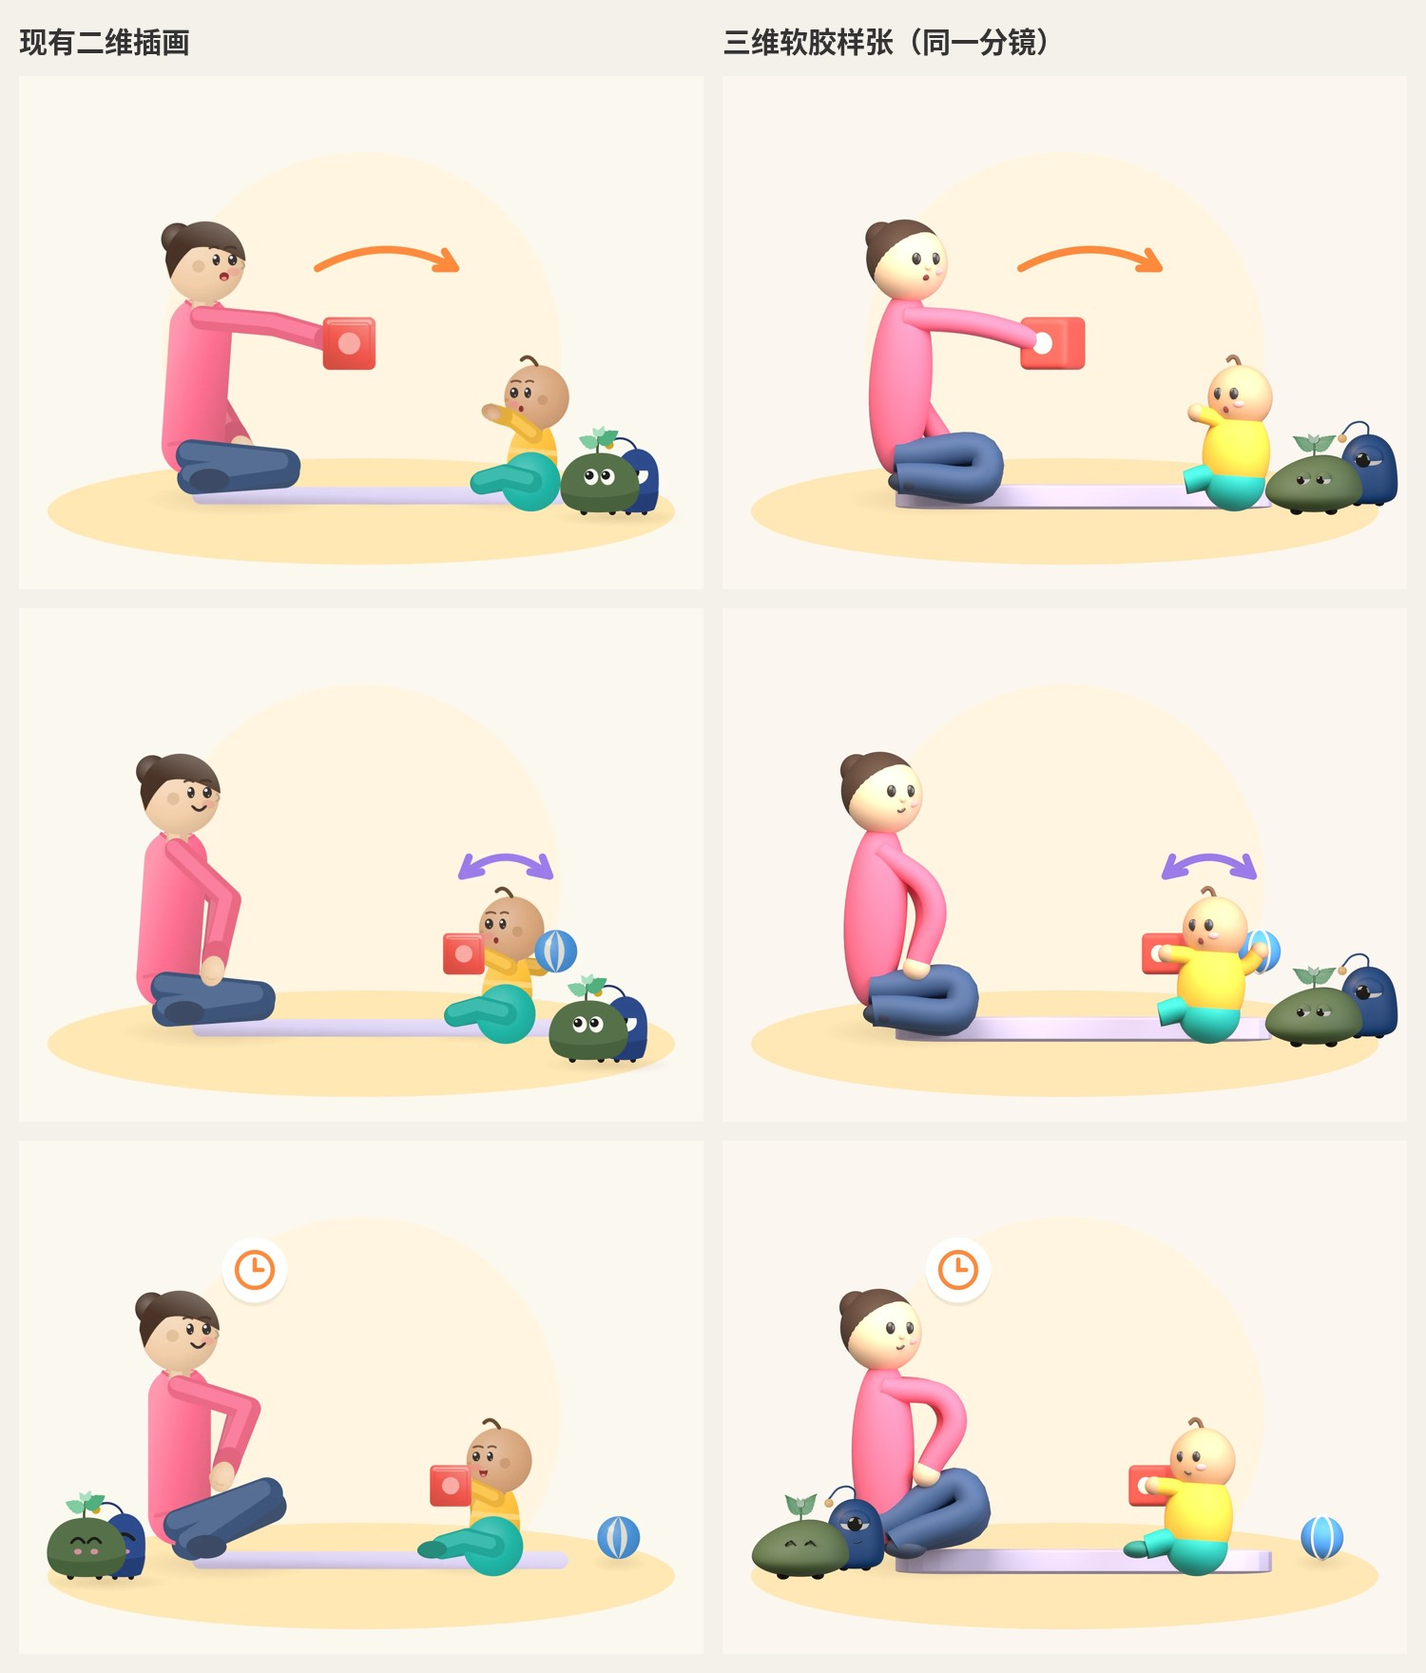
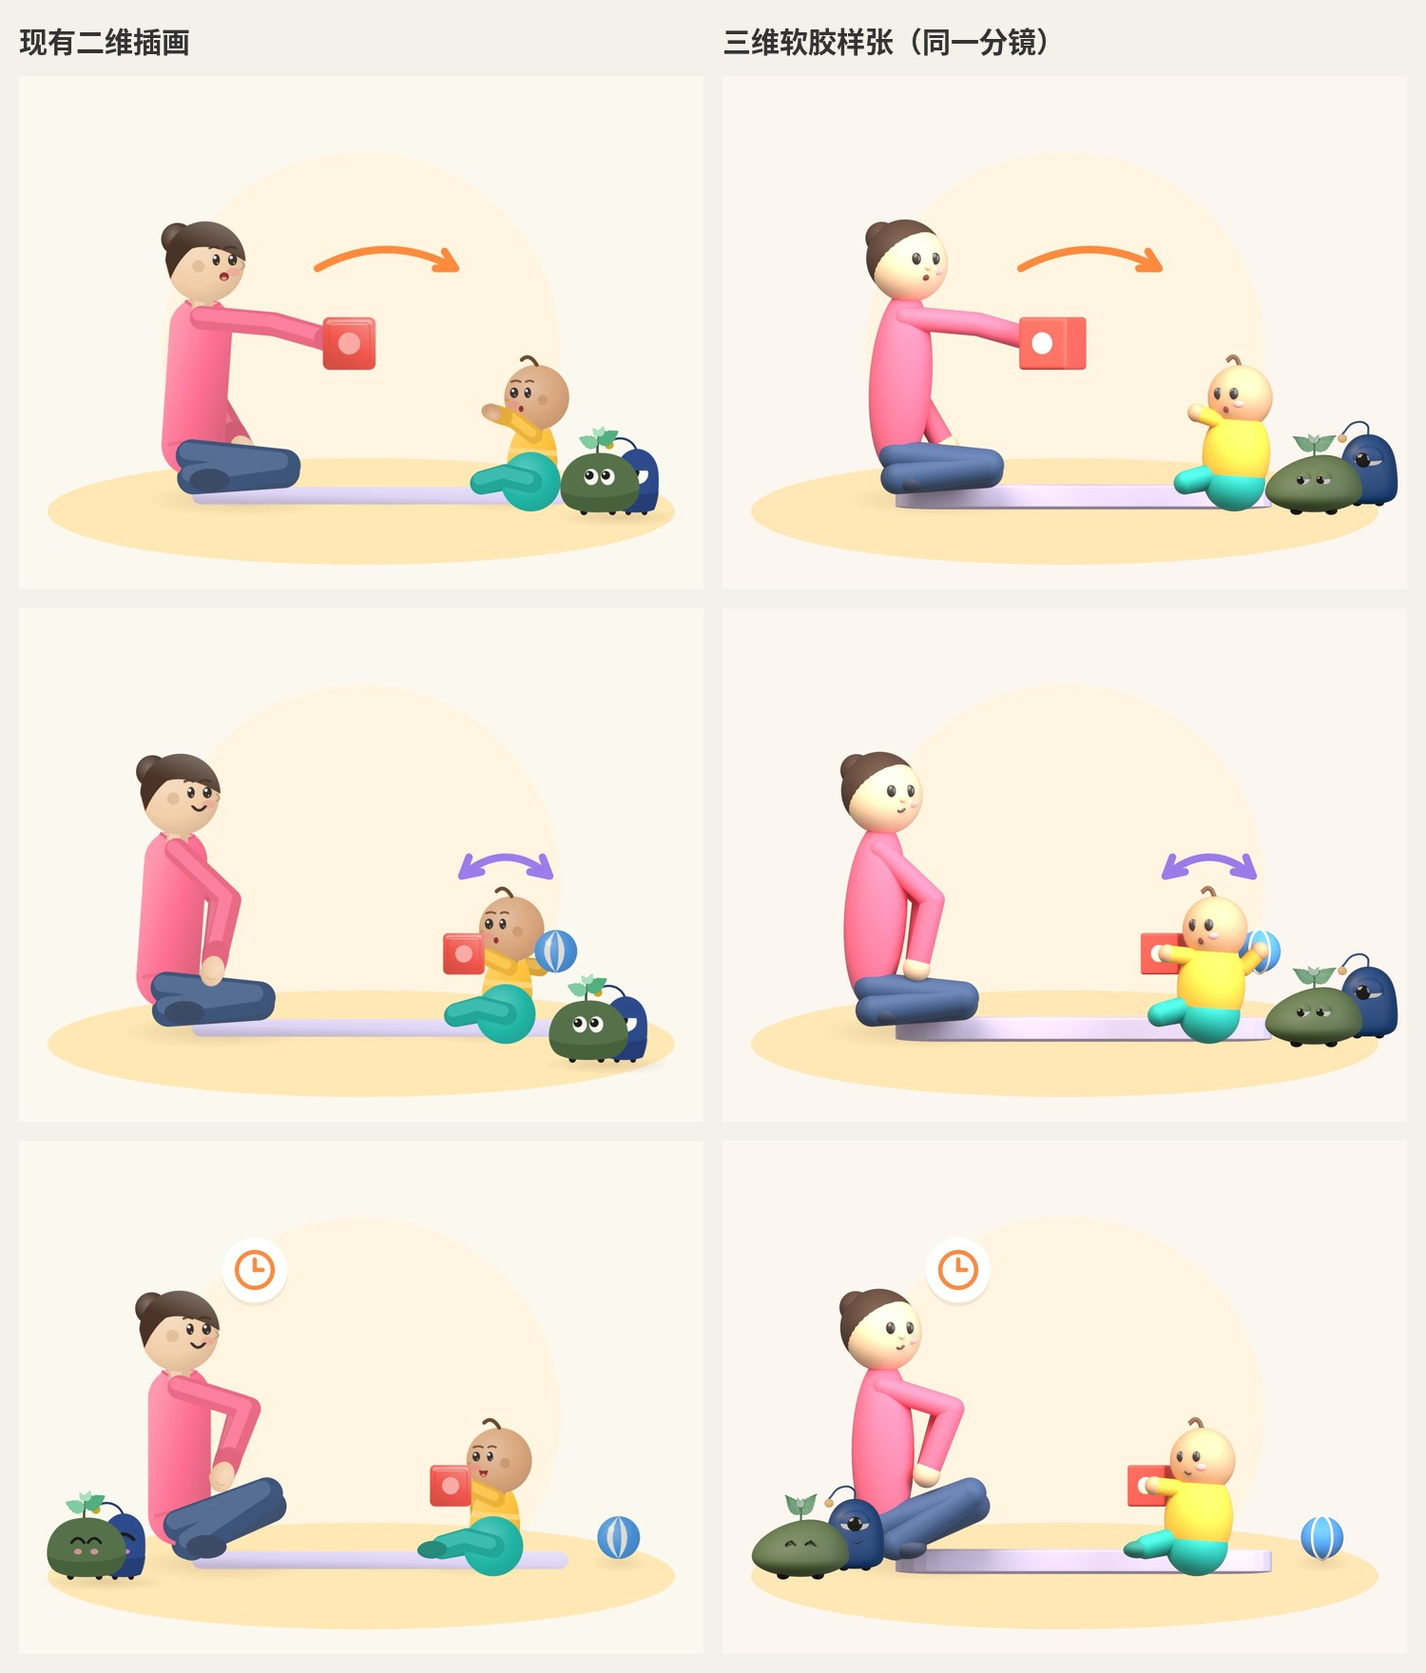
scene3d: articulated vinyl limbs (round joints), 3D props for most materials (table, stool, basket, cup, drum, cushion, box, car, bowl, plate, pot, spoon, rattle, doll), flat things and scenery kept 2D in their layers; LampScene places the rendered figures by their feet line and Otto's light at the 
Claude-Session: https://claude.ai/code/session_01UTvD6AgKvTyZ1ghsbDDvi8

diff --git a/ios/Mossling/IP/LampScene.swift b/ios/Mossling/IP/LampScene.swift
@@ -34,8 +34,10 @@ struct LampScene: View {
             let deskY = h * 0.72
             let ms = min(w * 0.36, h * 0.46), os = ms * 0.96
             let mossX = w * 0.30, ottoX = w * 0.72, toyX = w * 0.505
-            let ottoOrigin = CGPoint(x: ottoX - os / 2, y: deskY - os * 0.9)
-            let bead = CGPoint(x: ottoOrigin.x + os * 0.2, y: ottoOrigin.y + os * 0.115)
+            // the figures stand with their feet on the table top (the feet line of each render, Sprites.swift)
+            let mossTop = deskY - ms * Sprites.mossFeet / 100, ottoTop = deskY - os * Sprites.ottoFeet / 100
+            let b0 = Sprites.bead["idle"] ?? CGPoint(x: 0.29, y: 0.34)
+            let bead = CGPoint(x: ottoX - os / 2 + os * b0.x, y: ottoTop + os * b0.y)
             ZStack(alignment: .topLeading) {
                 room(w, h, deskY, bead, toyX)
                 lit(w, h, deskY, bead, toyX)
@@ -46,8 +48,8 @@ struct LampScene: View {
                         .position(x: c == .moss ? mossX : ottoX, y: deskY + 9)
                         .animation(.spring(response: 0.4, dampingFraction: 0.8), value: chosen)
                 }
-                companion(.moss, size: ms, at: CGPoint(x: mossX, y: deskY - ms * 0.9 + ms / 2))
-                companion(.otto, size: os, at: CGPoint(x: ottoX, y: deskY - os * 0.9 + os / 2))
+                companion(.moss, size: ms, at: CGPoint(x: mossX, y: mossTop + ms / 2))
+                companion(.otto, size: os, at: CGPoint(x: ottoX, y: ottoTop + os / 2))
             }
         }
         .clipped()

diff --git a/tools/scene3d.py b/tools/scene3d.py
@@ -46,12 +46,17 @@ def capture(spec, area):
     return last, list(OBJS)
 
 def layers(spec, area, watch=None):
-    """The 2D layers: the backdrop with the contact shadows (under the 3D), and the marks (over it)."""
+    """The 2D layers: the backdrop with the scenery and the contact shadows (under the 3D), and the flat props and the
+    marks (over it)."""
     keep = pb.Person.draw, pb.obj, pb.mark
-    pb.Person.draw = lambda s, sv: None; pb.obj = lambda *a, **k: None; pb.mark = lambda *a, **k: None
+    def only(kinds):
+        def f(sv, k, *a, **kw):
+            if k in kinds: _obj(sv, k, *a, **kw)
+        return f
+    pb.Person.draw = lambda s, sv: None; pb.obj = only(SCENERY); pb.mark = lambda *a, **k: None
     try: back = pb.scene(spec, area)
     finally: pb.Person.draw, pb.obj, pb.mark = keep
-    pb.Person.draw = lambda s, sv: None; pb.obj = lambda *a, **k: None
+    pb.Person.draw = lambda s, sv: None; pb.obj = only(FLAT)
     sh = pb.SVG.shadow; pb.SVG.shadow = lambda *a, **k: None
     try: front = pb.scene(spec, area)
     finally: pb.Person.draw, pb.obj = keep[0], keep[1]; pb.SVG.shadow = sh
@@ -77,6 +82,13 @@ def ink(): return MATS.setdefault("ink", mat("ink", "#2A2522", rough=0.4, coat=0
 def capsule(name, a, b, r, m):
     return tube(name, [a, ((a[0] + b[0]) / 2, (a[1] + b[1]) / 2, (a[2] + b[2]) / 2), b], r, m)
 
+def limb(name, pts, r, m):
+    """A toy's limb: straight segments with a round joint at each bend (an articulated vinyl figure), not a hose."""
+    for i, (a, b) in enumerate(zip(pts, pts[1:])):
+        capsule(f"{name}_{i}", a, b, r, m)
+    for i, p in enumerate(pts):   # round joints and round ends
+        sphere(f"{name}_j{i}", p, (r * 1.0,) * 3, m, seg=32)
+
 def hair_cap(c, r, f, hexc, kind):
     """Hair as a smooth cast cap: a sphere a touch larger than the head, set back and up, so it covers the crown and the
     back and leaves the face clear with a clean curved hairline (no cut edges)."""
@@ -94,7 +106,7 @@ def person3d(p, depth):
         for k, (knee, foot) in enumerate(p.legs):
             dd = depth + (sp if k == 1 else -sp)
             m = leg if k == 0 else vinyl(pb.dark(p.leg, .08))
-            tube(f"leg{k}", [W3(p.hip, dd * 0.5 + depth * 0.5), W3(knee, dd), W3(foot, dd)], L(d["lw"]) / 2, m)
+            limb(f"leg{k}", [W3(p.hip, dd * 0.5 + depth * 0.5), W3(knee, dd), W3(foot, dd)], L(d["lw"]) / 2, m)
             if not (p.kind == "child" and p.age < 10):
                 fx = W3(foot, dd); sphere(f"foot{k}", (fx[0] + f * L(d["lw"]) * 0.35, fx[1], fx[2] - L(d["lw"]) * 0.1),
                                           (L(d["lw"]) * 0.62, L(d["lw"]) * 0.5, L(d["lw"]) * 0.36), vinyl(pb.dark(p.leg, .3)))
@@ -111,7 +123,7 @@ def person3d(p, depth):
         for k, (shp, el, hd) in enumerate(p.arms):
             dd = depth + (sp * 1.1 if k == 1 else -sp * 1.1)
             m = top if k == 0 else vinyl(pb.dark(p.top, .08))
-            tube(f"arm{k}", [W3(shp, depth + (dd - depth) * 0.6), W3(el, dd), W3(hd, dd)], L(d["aw"]) / 2, m)
+            limb(f"arm{k}", [W3(shp, depth + (dd - depth) * 0.6), W3(el, dd), W3(hd, dd)], L(d["aw"]) / 2, m)
             sphere(f"hand{k}", W3(hd, dd), (L(d["hand"]),) * 3, skin)
         capsule("neck", W3(p.sh, depth), W3(p.headc, depth), L(d["head"]) * 0.28, skin)
     # the head: a round vinyl head, painted dot eyes on the side it faces, turned a little toward us
@@ -146,30 +158,135 @@ def person3d(p, depth):
         tube("mouth", [(mo[0] - r * 0.12, mo[1], mo[2] + r * 0.03), (mo[0], mo[1] - r * 0.02, mo[2] - r * 0.05), (mo[0] + r * 0.12, mo[1], mo[2] + r * 0.03)], r * 0.028, ink())
     if p.kind == "adult": sphere("nose", on_face(-0.02, -0.08, 1.02), (r * 0.08, r * 0.08, r * 0.09), skin)
 
+# Props: the things a family has at home, as rounded vinyl toys. Flat paper things (cards, books, photos, a phone)
+# and the outdoor scenery stay as the picture book draws them — flat in life, flat here — laid in the 2D layers.
+FLAT = {"card", "thing", "paper", "photo", "phone", "notebook", "book", "bookopen", "mirrorfaces", "mirror", "leaf",
+        "crayon", "lantern", "dumpling", "sock", "shirt", "cloth", "cloth2", "speaker"}
+SCENERY = {"tree", "sun", "cloud", "bird", "flower", "road", "kerb", "stroller"}
+
+def rbox(name, centre, size, col, bevel=0.3, rough=0.6, rot=(0, 0, 0)):
+    bpy.ops.mesh.primitive_cube_add(size=1, location=centre); b = bpy.context.object; b.name = name
+    b.scale = size; b.rotation_euler = rot
+    m = b.modifiers.new("b", "BEVEL"); m.width = min(size) * bevel; m.segments = 5; m.limit_method = "NONE"
+    b.data.materials.append(vinyl(col, rough)); return b
+
+def cyl(name, base, r, h, col, r2=None, rough=0.6, axis="Z", bevel=0.25):
+    if r2 is None: bpy.ops.mesh.primitive_cylinder_add(vertices=48, radius=r, depth=h, location=base)
+    else: bpy.ops.mesh.primitive_cone_add(vertices=48, radius1=r, radius2=r2, depth=h, location=base)
+    o = bpy.context.object; o.name = name
+    if axis == "Y": o.rotation_euler = (math.radians(90), 0, 0)
+    m = o.modifiers.new("b", "BEVEL"); m.width = min(r, h) * bevel; m.segments = 4; m.limit_method = "NONE"
+    for poly in o.data.polygons: poly.use_smooth = True
+    o.data.materials.append(vinyl(col, rough)); return o
+
+def torus(name, at, R, r, col, rot=(0, 0, 0)):
+    bpy.ops.mesh.primitive_torus_add(major_radius=R, minor_radius=r, location=at, rotation=rot)
+    t = bpy.context.object; t.name = name
+    for poly in t.data.polygons: poly.use_smooth = True
+    t.data.materials.append(vinyl(col)); return t
+
 def prop3d(o, depth):
     k, s, c = o["k"], o["s"], o["c"]
-    base = W3((o["x"], o["y"]), depth)
+    if k in FLAT or k in SCENERY: return
+    X, _, Z = W3((o["x"], o["y"]), depth)
+    l = lambda v: L(v * s)
+    D = depth
     if k == "block":
-        h = L(30 * s)
-        bpy.ops.mesh.primitive_cube_add(size=2 * h, location=(base[0], depth, base[2] + h)); b = bpy.context.object
-        bv = b.modifiers.new("b", "BEVEL"); bv.width = h * 0.28; bv.segments = 5
-        b.rotation_euler = (0, math.radians(o.get("rot", 0)), math.radians(-24))
-        b.data.materials.append(vinyl(c or "#F2554B", 0.5))
-        # the carved shape on its face, as on the 2D blocks: a cream disc set into the front
-        d = sphere("carve", (0, -h * 1.0, 0), (h * 0.42, h * 0.08, h * 0.42), vinyl("#FFF3E0", 0.5)); d.parent = b
+        h = l(30)
+        b = rbox("block", (X, D, Z + h), (2 * h, 2 * h, 2 * h), c or "#F2554B", 0.14, 0.5, (0, math.radians(o.get("rot", 0)), math.radians(-24)))
+        d = sphere("carve", (0, -0.5, 0), (0.21, 0.04, 0.21), vinyl("#FFF3E0", 0.5)); d.parent = b
+    elif k in ("blocks", "tumble"):
+        cols = (c if isinstance(c, list) else None) or ["#4C9BE8", "#FFC23D", "#F2554B"]
+        zz = Z
+        for i, col in enumerate(cols):
+            h = l(30 - i * 2) if k == "blocks" else l(26)
+            if k == "blocks":
+                rbox(f"blk{i}", (X + l(3) * (i % 2), D, zz + h), (2 * h, 2 * h, 2 * h), col, 0.14, 0.5, (0, 0, math.radians(-20 + i * 14))); zz += 2 * h
+            else:
+                dx, r = [(-44, -18), (0, 12), (46, 30)][i]
+                rbox(f"blk{i}", (X + l(dx), D, Z + h), (2 * h, 2 * h, 2 * h), col, 0.14, 0.5, (0, math.radians(r), math.radians(-20)))
     elif k == "ball":
-        r = L(34 * s)
-        sphere("ball", (base[0], depth, base[2] + r), (r, r, r), vinyl(c or "#F2554B", 0.55), seg=48)
-        # a cloth ball's two cream panels, as bands round it
+        r = l(34)
+        sphere("ball", (X, D, Z + r), (r, r, r), vinyl(c or "#F2554B", 0.55), seg=48)
         for rz in (62, -62):
-            bpy.ops.mesh.primitive_torus_add(major_radius=r * 0.985, minor_radius=r * 0.11, location=(base[0], depth, base[2] + r), rotation=(math.radians(90), 0, math.radians(rz)))
-            t = bpy.context.object; t.scale = (1, 1, 0.5); t.data.materials.append(vinyl("#FFF3E0", 0.6))
-            for poly in t.data.polygons: poly.use_smooth = True
+            t = torus("band", (X, D, Z + r), r * 0.985, r * 0.11, "#FFF3E0", (math.radians(90), 0, math.radians(rz))); t.scale = (1, 1, 0.5)
     elif k == "mat":
-        w = L(300 * s); t = L(20)
-        bpy.ops.mesh.primitive_cube_add(size=1, location=(base[0], depth + 0.9, base[2] - t * 0.1)); m = bpy.context.object
-        m.scale = (w, 2.6, t); bv = m.modifiers.new("b", "BEVEL"); bv.width = t * 0.45; bv.segments = 4
-        m.data.materials.append(vinyl(c or "#BFE3D6", 0.8))
+        w = l(300); t = L(20)
+        rbox("mat", (X, D + 0.9, Z - t * 0.1), (w, 2.6, t), c or "#BFE3D6", 0.45, 0.8)
+    elif k == "table":
+        rbox("top", (X, D, Z + L(115)), (l(220), 1.5, L(18)), "#D6A774", 0.35, 0.55)
+        for dx in (-90, 90):
+            for dy in (-0.55, 0.55): cyl("leg", (X + l(dx), D + dy, Z + L(54)), L(8), L(108), "#B8854F")
+    elif k == "stool":
+        rbox("seat", (X, D, Z + l(74)), (l(80), 0.8, l(16)), "#D6A774", 0.4, 0.55)
+        for dx in (-28, 28): cyl("leg", (X + l(dx), D, Z + l(35)), L(6), l(70), "#B8854F")
+    elif k == "basket":
+        col = c or "#C98A4B"
+        cyl("basket", (X, D, Z + l(22)), l(52), l(44), col, r2=l(42), rough=0.8)
+        bk = bpy.context.object; bk.rotation_euler = (math.radians(180), 0, 0)   # wider at the top
+        for i in range(1, 4): torus("weave", (X, D, Z + l(44 - i * 11)), l(42 + i * 2.6), l(2.2), pb.dark(col, .15))
+        torus("rim", (X, D, Z + l(45)), l(53), l(4.5), pb.dark(col, .06))
+    elif k == "cup":
+        col = c or "#1FB5A6"
+        o2 = cyl("cup", (X, D, Z + l(25)), l(17), l(50), col, r2=l(22), rough=0.5)
+        torus("handle", (X + l(22), D, Z + l(28)), l(11), l(3.2), pb.dark(col, .1), (math.radians(90), 0, 0))
+    elif k == "drum":
+        col = c or "#F2554B"
+        cyl("drum", (X, D, Z + l(23)), l(40), l(46), col, rough=0.55)
+        for zz in (2, 44): torus("rim", (X, D, Z + l(zz)), l(40), l(4), "#FFC23D")
+        cyl("skin", (X, D, Z + l(46.5)), l(37), l(1.5), "#FFF3E0", rough=0.7)
+    elif k == "cushion":
+        rbox("cushion", (X, D, Z + l(15)), (l(108), 0.9, l(30)), c or "#9B7BEA", 0.48, 0.75)
+    elif k == "box":
+        col = c or "#4C9BE8"
+        b = rbox("box", (X, D, Z + l(20)), (l(100), 0.9, l(40)), col, 0.15, 0.55)
+        rbox("hole", (X, D - 0.45, Z + l(22)), (l(28), 0.05, l(8)), pb.dark(col, .45), 0.45, 0.8)
+    elif k == "car":
+        col = c or "#F2554B"
+        rbox("body", (X, D, Z + l(27)), (l(92), l(46), l(26)), col, 0.3, 0.5)
+        rbox("cab", (X + l(6), D, Z + l(46)), (l(40), l(40), l(22)), col, 0.35, 0.5)
+        rbox("glass", (X + l(6), D - l(20.5), Z + l(47)), (l(30), l(1), l(13)), "#DCEFF6", 0.3, 0.2)
+        for dx in (-26, 26):
+            for dy in (-1, 1): cyl("wheel", (X + l(dx), D + dy * l(22), Z + l(12)), l(12), l(9), "#3B3330", axis="Y")
+    elif k == "bowl":
+        col = c or "#1FB5A6"
+        b = sphere("bowl", (X, D, Z + l(26)), (l(34), l(34), l(30)), vinyl(col, 0.5))
+        import bmesh
+        bm = bmesh.new(); bm.from_mesh(b.data)
+        bmesh.ops.delete(bm, geom=[v for v in bm.verts if v.co.z > 0.0], context="VERTS"); bm.to_mesh(b.data); bm.free()
+        sol = b.modifiers.new("t", "SOLIDIFY"); sol.thickness = 0.08
+        sphere("fruit", (X - l(8), D, Z + l(24)), (l(9),) * 3, vinyl("#FFC23D")); sphere("fruit2", (X + l(10), D - l(4), Z + l(22)), (l(8),) * 3, vinyl("#4DB86A"))
+    elif k == "plate":
+        cyl("plate", (X, D, Z + l(3)), l(44), l(5), "#FFFFFF", r2=l(36), rough=0.4)
+        bpy.context.object.rotation_euler = (math.radians(180), 0, 0)
+    elif k == "pot":
+        col = c or "#F2554B"
+        cyl("pot", (X, D, Z + l(20)), l(38), l(40), col, rough=0.5)
+        torus("rim", (X, D, Z + l(41)), l(40), l(4), pb.dark(col, .1))
+        rbox("handle", (X + l(50), D, Z + l(32)), (l(26), l(8), l(8)), pb.dark(col, .25), 0.45)
+    elif k == "spoon":
+        a = math.radians(-(o.get("rot") or 30))
+        tip = (X + math.sin(-a) * l(40), D, Z + math.cos(a) * l(40))
+        capsule("spoon", (X, D, Z + l(4)), tip, l(3), vinyl("#B9B2A8", 0.4))
+        sphere("bowl", (X + math.sin(-a) * l(46), D, Z + math.cos(a) * l(46)), (l(8), l(5), l(11)), vinyl("#CFC9C0", 0.4)).rotation_euler = (0, a, 0)
+    elif k == "rattle":
+        col = c or "#9B7BEA"
+        capsule("handle", (X, D, Z + l(8)), (X + l(12), D, Z + l(52)), l(5), vinyl("#E2B57A"))
+        for i, rc in enumerate(["#FFC23D", "#1FB5A6", "#FF6F91"]):
+            t = l(14 + i * 13); torus("ring", (X + t * 0.27, D, Z + t), l(6.5), l(2.5), rc, (0, math.radians(-15), 0))
+        sphere("head", (X + l(14), D, Z + l(74)), (l(20),) * 3, vinyl(col, 0.5))
+    elif k == "doll":
+        col = c or "#9B7BEA"
+        cyl("dress", (X, D, Z + l(25)), l(22), l(50), col, r2=l(14), rough=0.7)
+        sk = vinyl("#F6D2B0", 0.55); r = l(18)
+        sphere("dhead", (X, D, Z + l(66)), (r, r, r), sk)
+        sphere("dhair", (X, D + r * 0.15, Z + l(70)), (r * 1.02,) * 3, vinyl("#8B5A3C", 0.7))
+        for dx in (-0.33, 0.33): sphere("deye", (X + dx * r, D - r * 0.93, Z + l(66)), (r * 0.09, r * 0.05, r * 0.12), ink())
+        for sx in (-1, 1): capsule("darm", (X + sx * l(14), D, Z + l(44)), (X + sx * l(24), D, Z + l(26)), l(6), vinyl(pb.dark(col, .1)))
+    elif k == "dollbed":
+        r = l(17)
+        sphere("dhead", (X - l(44), D, Z + l(20)), (r, r, r), vinyl("#F6D2B0", 0.55))
+        rbox("blanket", (X + l(13), D, Z + l(17)), (l(86), 0.7, l(34)), c or "#4C9BE8", 0.45, 0.75)
     else:
         print("no 3D model yet for", k)
 
@@ -193,11 +310,19 @@ def render_step(spec, area, out, size, prev=None, sprites_dir=None, last=False):
     for who, p in zip(whos, people):
         n = order.index(who) if who in order else 0
         person3d(p, -0.55 * n)
-    for o in objs:
-        dep = 0.4 if o["k"] in ("mat",) else -0.55 * len(whos) + 0.25
-        if o["k"] not in ("mat",):
-            # a held thing sits with the hand that holds it; a thing on the floor between the two
-            dep = -0.6
+    # where each prop goes in depth, in the order picturebook.scene draws them: scenery at the back, things on the
+    # floor behind the people (the picture book draws them first), things in front and things held in front of them
+    so = spec.get("objs", [])
+    flags = [("back", o) for o in so if o.get("back")] + [("floor", o) for o in so if not o.get("back") and not o.get("front") and not o.get("on")]
+    for o in so:
+        if o.get("front"): flags.append(("front", o))
+        if o.get("on"): flags.append(("on", o))
+    j = 0
+    for i, o in enumerate(objs):
+        if o["k"] == "mirror" and i > 0 and objs[i - 1]["k"] == "mirrorfaces": continue   # drawn inside mirrorfaces
+        kind = flags[j][0] if j < len(flags) else "floor"; j += 1
+        dep = {"back": 1.5, "floor": 0.45, "front": -0.55 * len(whos) - 0.4, "on": -0.55 * len(whos) + 0.1}[kind]
+        if o["k"] == "mat": dep = 0.4
         prop3d(o, dep)
     bpy.ops.object.camera_add(location=(pb.W / 2 / U, -30, (pb.GROUND - pb.H / 2) / U)); c = bpy.context.object
     c.rotation_euler = (math.radians(90), 0, 0); c.data.type = "ORTHO"; c.data.ortho_scale = pb.W / U
@@ -229,12 +354,17 @@ def watchers(img, where, d, happy):
     img.alpha_composite(o, (int(ox * sc - os_ / 2), int((base - 8 * k) * sc - feet_o * os_)))
     img.alpha_composite(m, (int(x * sc - ms / 2), int(base * sc - feet_m * ms)))
 
-if __name__ == "__main__":
-    out = ARGS[0]; os.makedirs(out, exist_ok=True)
-    code = arg("--play", "A11")
+def one(code, out):
     spec = json.load(open(pb.SCENES))[code]
     play = next(p for p in pb.C["activities"] if p["code"] == code)
     area = pb.area_of(play)
     prev = None
+    steps = [int(x) - 1 for x in arg("--steps", "").split(",") if x] or range(len(spec))
     for i, st in enumerate(spec):
+        if i not in steps: continue
         prev = render_step(st, area, os.path.join(out, f"{code}_{i + 1}.jpg"), arg("--size", 1440), prev, arg("--sprites", ""), i == len(spec) - 1)
+
+if __name__ == "__main__":
+    out = ARGS[0]; os.makedirs(out, exist_ok=True)
+    for code in arg("--play", "A11").split(","):
+        one(code, out)

diff --git a/docs/REBUILD.md b/docs/REBUILD.md
@@ -42,8 +42,8 @@
 插画必须和角色是同一种画风。角色定型为哑光软胶三维之后，插画的样张已经做出（待项目负责人评审）：
 
 - 做法：`tools/scene3d.py` 不重新分镜，沿用 `tools/scenes.json` 的分镜和 `tools/picturebook.py` 的二维骨架（谁跪在哪里、手伸到哪里、拿着什么），把人物按骨架做成软胶玩偶（胶囊四肢、孩子是蛋形身体、圆头、点状眼睛），教具做成圆角玩具，用与角色相同的产品布光、正交相机正面渲染，所以每个关节都落在二维图原来的位置；纸面、地面和箭头、徽章等标记仍是二维，原样叠加；Moss 与 Otto 直接用应用里的同一套渲染。
-- 样张：活动 A11 的 3 步，与现有二维插画并排——`docs/images/ip/illustration_sample_a11.jpg`。
-- 评审通过后：补齐全部教具的三维模型（目前只有积木、布球、爬行垫），再出 146 步（男宝、女宝）与 37 张封面，并重跑盲配测试。
+- 样张：活动 A11 的 3 步，与现有二维插画并排——`docs/images/ip/illustration_sample_a11.jpg`；同一做法用于餐桌、小车与积木、小鼓等其他活动——`docs/images/ip/illustration_sample_more.jpg`。人物四肢为带圆关节的软胶玩偶结构；卡片、书、照片等本来就是平面的物品与户外布景保留绘本原画。
+- 评审通过后：补齐其余教具的三维模型（已有积木、布球、爬行垫、桌凳、篮子、杯、鼓、靠垫、盒子、小车、碗盘锅勺、摇铃、娃娃），再出 146 步（男宝、女宝）与 37 张封面，并重跑盲配测试。
 
 ## 5. 事实、推断与未知
 
